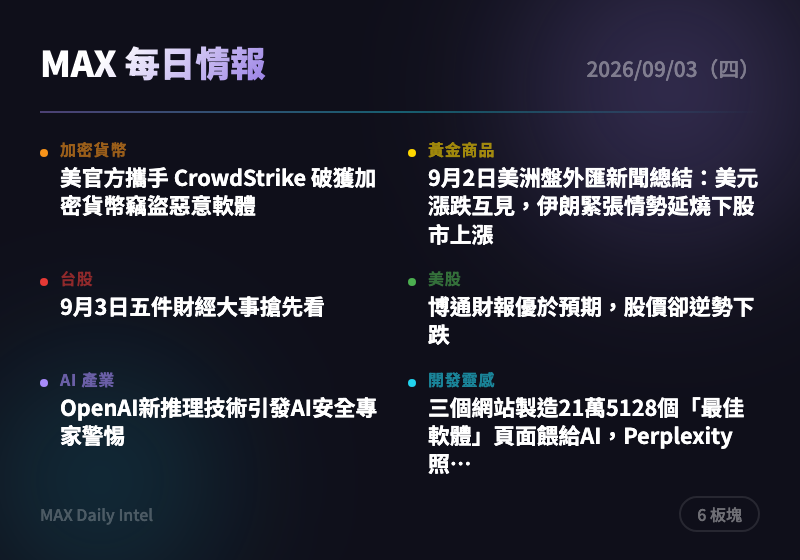
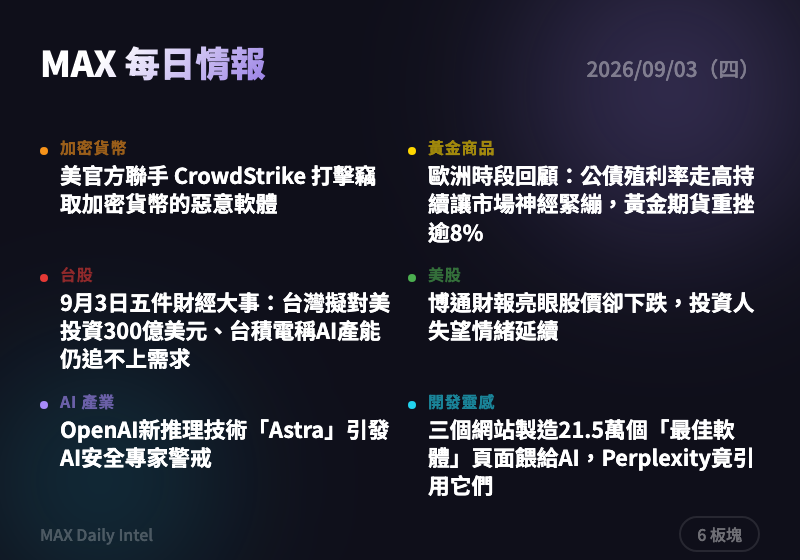
intel: 2026-09-03 每日情報自動生成

diff --git a/docs/2026-09-03.html b/docs/2026-09-03.html
@@ -318,15 +318,15 @@
     </div>
     <div class="news-card">
       <div class="source">CoinTelegraph</div>
-      <h3><a href="https://cointelegraph.com/news/us-officials-crowdstrike-malware-stealing-crypto?utm_source=rss_feed&utm_medium=rss&utm_campaign=rss_partner_inbound" target="_blank" rel="noopener">美官方攜手 CrowdStrike 破獲加密貨幣竊盜惡意軟體</a></h3>
-      <div class="summary">美國聯邦當局與資安業者 CrowdStrike (紐約證交所代碼CRWD) 合作，搗毀一個潛伏長達八年、竊取約15萬美元加密貨幣的惡意軟體網絡。此案顯示執法機關對加密犯罪的追查能力持續強化，長期潛伏型攻擊也逐漸浮上檯面。對一般投資人影響有限，但反映監管與資安合作正在收緊犯罪空間。</div>
+      <h3><a href="https://cointelegraph.com/news/us-officials-crowdstrike-malware-stealing-crypto?utm_source=rss_feed&utm_medium=rss&utm_campaign=rss_partner_inbound" target="_blank" rel="noopener">美官方聯手 CrowdStrike 打擊竊取加密貨幣的惡意軟體</a></h3>
+      <div class="summary">聯邦當局與 CrowdStrike 等民間夥伴聯手瓦解一款過去八年間竊取約 15 萬美元加密貨幣的俄羅斯惡意軟體。此案顯示執法機關對加密貨幣犯罪的追蹤能力持續提升，長期有助降低鏈上資產被盜風險。對一般投資人而言屬中性偏正面消息，無需採取行動。</div>
       <div class="tags"><span class="tag">加密貨幣</span><span class="tag">資安</span><span class="tag">執法</span></div>
     </div>
     <div class="news-card">
       <div class="source">CoinDesk</div>
-      <h3><a href="https://www.coindesk.com/business/2026/09/02/kraken-parent-payward-pushes-ipo-back-to-mid-2027-at-earliest" target="_blank" rel="noopener">Kraken母公司Payward IPO延後至2027年第二季</a></h3>
-      <div class="summary">加密貨幣交易所 Kraken 的母公司 Payward 將原訂的首次公開發行(IPO)計畫延後至最早2027年第二季。此舉反映當前市場環境（美股債殖利率飆升、地緣政治緊張）不利加密企業上市，也顯示產業對資本市場時機更趨保守。投資人若關注加密股票曝險，需留意上市時程持續遞延的風險。</div>
-      <div class="tags"><span class="tag">加密貨幣</span><span class="tag">IPO</span><span class="tag">資本市場</span></div>
+      <h3><a href="https://www.coindesk.com/business/2026/09/02/kraken-parent-payward-pushes-ipo-back-to-mid-2027-at-earliest" target="_blank" rel="noopener">Kraken 母公司 Payward 將 IPO 延至 2027 年第二季以後</a></h3>
+      <div class="summary">加密貨幣交易所 Kraken 的母公司 Payward 宣布將原訂的 IPO 計畫延後至 2027 年第二季或更晚。此舉反映近期市場波動與監管不確定性可能影響加密企業上市時程，投資人應留意加密股權投資標的的流動性風險。建議暫緩對相關概念股的追高操作。</div>
+      <div class="tags"><span class="tag">加密貨幣</span><span class="tag">IPO</span><span class="tag">交易所</span></div>
     </div>
   </section>
 
@@ -338,15 +338,15 @@
     </div>
     <div class="news-card">
       <div class="source">ForexLive</div>
-      <h3><a href="https://investinglive.com/news/investinglive-americas-fx-news-wrap-2-sept-usd-mixed-stocks-rise-as-iran-tensions-simmer/" target="_blank" rel="noopener">9月2日美洲盤外匯新聞總結：美元漲跌互見，伊朗緊張情勢延燒下股市上漲</a></h3>
-      <div class="summary">美股在伊朗緊張情勢未解之際仍收紅，以小型股領漲；聯準會褐皮書顯示經濟溫和成長、通膨溫和。美元表現分歧反映市場對地緣風險與貨幣政策前景的拉鋸。黃金及避險資產走勢值得留意，尤其若中東局勢進一步升溫。</div>
-      <div class="tags"><span class="tag">外匯</span><span class="tag">美股</span><span class="tag">地緣政治</span><span class="tag">央行</span></div>
+      <h3><a href="https://investinglive.com/news/investinglive-european-session-wrap-higher-bond-yields-continue-to-keep-markets-on-edge/" target="_blank" rel="noopener">歐洲時段回顧：公債殖利率走高持續讓市場神經緊繃，黃金期貨重挫逾8%</a></h3>
+      <div class="summary">受美伊緊張情勢與鷹派聯準會預期影響，公債殖利率飆升，標普500指數跌破重要支撐，黃金期貨大跌逾8%。市場人士討論這是否為逢低買進黃金的機會，同時債券市場出現結構性轉變值得高度關注。建議留意殖利率走勢，若黃金持續探底可分批布局。</div>
+      <div class="tags"><span class="tag">黃金</span><span class="tag">債券市場</span><span class="tag">地緣政治</span></div>
     </div>
     <div class="news-card">
       <div class="source">ForexLive</div>
-      <h3><a href="https://investinglive.com/news/us-factory-orders-for-the-month-of-july-0-9-versus-0-6-expected/" target="_blank" rel="noopener">美國7月工廠訂單增0.9%，優於預期的0.6%</a></h3>
-      <div class="summary">美國7月工廠訂單月增0.9%，明顯優於市場預期的0.6%，前值則由-0.3%上修至-0.2%；耐久財訂單亦與初值一致成長1.1%。數據顯示製造業需求動能仍具韌性，可能強化聯準會維持鷹派立場的理由，對黃金及殖利率敏感資產構成壓力。建議留意後續殖利率走勢對貴金屬的連動影響。</div>
-      <div class="tags"><span class="tag">總體經濟</span><span class="tag">美國數據</span><span class="tag">央行</span></div>
+      <h3><a href="https://investinglive.com/news/irgc-claims-that-another-two-oil-tankers-have-been-disabled-after-hitting-mines-in-the-strait-of-hormuz/" target="_blank" rel="noopener">伊朗革命衛隊聲稱荷姆茲海峽再有兩艘油輪因觸雷失去動力</a></h3>
+      <div class="summary">伊朗伊斯蘭革命衛隊（IRGC）宣稱又有兩艘油輪在荷姆茲海峽觸雷失去動力，顯示伊朗持續以海峽航行安全作為對美施壓籌碼。此事件推升原油與避險資產價格，市場需持續關注中東緊張情勢是否進一步升級。建議投資人保留部分部位於能源與黃金作為避險。</div>
+      <div class="tags"><span class="tag">地緣政治</span><span class="tag">原油</span><span class="tag">中東</span></div>
     </div>
   </section>
 
@@ -358,15 +358,15 @@
     </div>
     <div class="news-card">
       <div class="source">經濟日報</div>
-      <h3><a href="https://money.udn.com/money/story/5607/9731020" target="_blank" rel="noopener">9月3日五件財經大事搶先看</a></h3>
-      <div class="summary">美商務部長盧特尼克透露台灣下週將宣布對美投資200至300億美元，並評估開徵新半導體關稅；Google技術長強調全球算力需求無上限、將加強與台灣合作；台積電(2330)高層則指出AI產能吃緊，就算同時興建20座晶圓廠仍供不應求。這些消息牽動台美貿易關係與半導體供應鏈布局，投資人應密切關注後續關稅細節與台積電擴產進度對相關個股的影響。</div>
-      <div class="tags"><span class="tag">半導體</span><span class="tag">台美貿易</span><span class="tag">台積電</span><span class="tag">AI</span></div>
+      <h3><a href="https://money.udn.com/money/story/5607/9731020" target="_blank" rel="noopener">9月3日五件財經大事：台灣擬對美投資300億美元、台積電稱AI產能仍追不上需求</a></h3>
+      <div class="summary">美國商務部長盧特尼克表示台灣下週將宣布對美投資200至300億美元，同時評估對台開徵新半導體關稅；台積電高層則指出AI需求龐大迫切，即便同時興建20座晶圓廠仍難以滿足需求。此消息牽動台美貿易關係與半導體供應鏈布局，對台積電及相關供應鏈個股具長線含意。建議關注後續關稅細節與台積電資本支出動向。</div>
+      <div class="tags"><span class="tag">台美貿易</span><span class="tag">半導體</span><span class="tag">台積電</span><span class="tag">地緣政治</span></div>
     </div>
     <div class="news-card">
       <div class="source">經濟日報</div>
-      <h3><a href="https://money.udn.com/money/story/5607/9730901" target="_blank" rel="noopener">台股外資殺盤近千億元，後市留意美股美債及技術面三大風險</a></h3>
-      <div class="summary">台股9月2日在三大法人賣壓逾千億元下重挫784點、跌幅1.6%，收在46,164點的當日低點，並跌破5日均線。法人指出市場正面臨「升息預期」與「AI題材」的多空拉鋸，成交量同步萎縮至9,764.9億元，顯示追價意願轉弱。建議投資人短線留意美股表現、美債殖利率走勢及台股技術面支撐，控制持股水位因應波動。</div>
-      <div class="tags"><span class="tag">台股</span><span class="tag">外資</span><span class="tag">風險管理</span></div>
+      <h3><a href="https://money.udn.com/money/story/5607/9730901" target="_blank" rel="noopener">台股外資賣壓近千億元 後市須留意美股、美債殖利率及技術面三大風險</a></h3>
+      <div class="summary">台股在三大法人逾千億元賣壓下重挫784點、跌幅1.6%，並跌破5日均線，成交量萎縮至9,764.9億元。市場多空因素交織，主要是「升息預期」與「AI題材」拉鋸，短線恐持續震盪。建議投資人留意美股、美債殖利率走勢及台股技術面支撐，逢高減碼保留現金。</div>
+      <div class="tags"><span class="tag">台股</span><span class="tag">外資</span><span class="tag">風險</span></div>
     </div>
   </section>
 
@@ -378,15 +378,15 @@
     </div>
     <div class="news-card">
       <div class="source">MarketWatch</div>
-      <h3><a href="https://www.marketwatch.com/story/broadcoms-stock-falls-despite-upbeat-earnings-extending-a-frustrating-stretch-for-investors-81de3f53?mod=mw_rss_topstories" target="_blank" rel="noopener">博通財報優於預期，股價卻逆勢下跌</a></h3>
-      <div class="summary">博通(Broadcom, AVGO)最新季度財報超越市場預期，但股價仍未能因此上漲，延續近期讓投資人失望的走勢。這反映市場對AI供應鏈類股的獲利預期已相當高，即便財報亮眼也難以進一步推升股價，投資人須留意「利多出盡」的風險，評估是否已充分反映在股價中。</div>
-      <div class="tags"><span class="tag">半導體</span><span class="tag">AI</span><span class="tag">財報</span><span class="tag">美股</span></div>
+      <h3><a href="https://www.marketwatch.com/story/broadcoms-stock-falls-despite-upbeat-earnings-extending-a-frustrating-stretch-for-investors-81de3f53?mod=mw_rss_topstories" target="_blank" rel="noopener">博通財報亮眼股價卻下跌，投資人失望情緒延續</a></h3>
+      <div class="summary">博通(Broadcom)最新季度財報優於市場預期，但股價仍應聲下跌，反映市場對其估值與未來成長預期已相當嚴苛。這顯示AI供應鏈龍頭股在財報後容易出現「利多出盡」的賣壓。建議追蹤該股後續財測與AI訂單能見度再行布局。</div>
+      <div class="tags"><span class="tag">美股</span><span class="tag">半導體</span><span class="tag">財報</span><span class="tag">AI</span></div>
     </div>
     <div class="news-card">
       <div class="source">MarketWatch</div>
-      <h3><a href="https://www.marketwatch.com/story/nvidias-stock-is-climbing-as-investors-get-more-confidence-in-an-expanding-base-of-ai-customers-a6e297f1?mod=mw_rss_topstories" target="_blank" rel="noopener">輝達股價走揚，市場對AI客戶群擴大更具信心</a></h3>
-      <div class="summary">輝達(Nvidia, NVDA)股價上漲，反映投資人對其AI客戶基礎持續擴大更具信心。戴爾(Dell)財報顯示AI硬體需求已不僅限於大型雲端業者，代表AI基礎建設投資正擴散至更廣泛的企業客戶。這對整體AI供應鏈類股是正面訊號，可留意相關伺服器與晶片供應商的連動表現。</div>
-      <div class="tags"><span class="tag">AI</span><span class="tag">半導體</span><span class="tag">輝達</span><span class="tag">美股</span></div>
+      <h3><a href="https://www.marketwatch.com/story/nvidias-stock-is-climbing-as-investors-get-more-confidence-in-an-expanding-base-of-ai-customers-a6e297f1?mod=mw_rss_topstories" target="_blank" rel="noopener">輝達股價走高，投資人對AI客戶群擴大更具信心</a></h3>
+      <div class="summary">輝達(Nvidia)股價上漲，主因戴爾(Dell)財報顯示AI硬體需求已擴展至主要雲端業者以外的客戶群。這代表AI基礎建設需求的廣度正在提升，非僅集中於少數大型雲端商，對整體半導體供應鏈是正面訊號。建議持續關注企業級AI伺服器訂單能否延續動能。</div>
+      <div class="tags"><span class="tag">美股</span><span class="tag">輝達</span><span class="tag">AI</span><span class="tag">半導體</span></div>
     </div>
   </section>
 
@@ -398,14 +398,14 @@
     </div>
     <div class="news-card">
       <div class="source">TechCrunch AI</div>
-      <h3><a href="https://techcrunch.com/2026/09/02/openais-new-reasoning-technique-alarms-ai-safety-experts/" target="_blank" rel="noopener">OpenAI新推理技術引發AI安全專家警惕</a></h3>
-      <div class="summary">OpenAI新款Astra模型將採用「循環深度(recurrent depth)」技術，讓模型能跳脫多數推理模型慣用的循序思考模式運作。此舉引發AI安全專家憂慮，因為脫離傳統可解釋的推理鏈可能使模型行為更難監控與預測。此事件值得持續關注監管機構與業界對AI安全標準的後續回應。</div>
-      <div class="tags"><span class="tag">AI</span><span class="tag">OpenAI</span><span class="tag">AI安全</span></div>
+      <h3><a href="https://techcrunch.com/2026/09/02/openais-new-reasoning-technique-alarms-ai-safety-experts/" target="_blank" rel="noopener">OpenAI新推理技術「Astra」引發AI安全專家警戒</a></h3>
+      <div class="summary">OpenAI新模型Astra採用「循環深度」(recurrent depth)技術，讓模型能跳脫多數推理模型慣用的循序思考模式運作。此舉引發AI安全專家高度警覺，擔憂此技術可能帶來難以預測或監控的風險，被形容為「AI安全史上最糟發展之一」。建議密切關注Astra正式發布後的安全防護措施與業界反應。</div>
+      <div class="tags"><span class="tag">AI安全</span><span class="tag">OpenAI</span><span class="tag">模型技術</span></div>
     </div>
     <div class="news-card">
       <div class="source">The Verge AI</div>
-      <h3><a href="https://www.theverge.com/ai-artificial-intelligence/988742/google-gemini-3-8-flash" target="_blank" rel="noopener">Google推出Gemini 3.8 Flash，稱模型「更努力」但成本可能提高</a></h3>
-      <div class="summary">Google在前代發布僅數週後便推出Gemini 3.8 Flash，宣稱新模型透過在複雜任務上執行更多推理步驟並「迭代呼叫工具」而「更努力」運作。定價維持與3.7 Flash相同的入門價，每百萬輸入token 0.75美元、輸出token 3.75美元，但實際使用成本可能因推理步驟增加而上升。反映AI大廠競相在效能與成本間尋找平衡，開發者應評估新模型是否符合成本效益。</div>
+      <h3><a href="https://www.theverge.com/ai-artificial-intelligence/988742/google-gemini-3-8-flash" target="_blank" rel="noopener">Google推出Gemini 3.8 Flash，號稱「更努力思考」但成本可能提高</a></h3>
+      <div class="summary">Google在Gemini 3.7 Flash推出僅數週後，即發布Gemini 3.8 Flash，宣稱新模型透過更多推理步驟與反覆調用工具，能「更努力」處理複雜任務。入門定價維持與3.7 Flash相同（每百萬輸入token 0.75美元、輸出3.75美元），但複雜任務實際成本可能因推理步驟增加而上升。此為Google加速模型迭代、與OpenAI等對手競爭AI效能的策略之一，企業用戶應留意實際使用成本變化。</div>
       <div class="tags"><span class="tag">AI</span><span class="tag">Google</span><span class="tag">大型語言模型</span></div>
     </div>
   </section>
@@ -418,15 +418,15 @@
     </div>
     <div class="news-card">
       <div class="source">Hacker News Best</div>
-      <h3><a href="https://trellner.com/reports/manufactured-sources-behind-ai-recommendations/" target="_blank" rel="noopener">三個網站製造21萬5128個「最佳軟體」頁面餵給AI，Perplexity照單引用</a></h3>
-      <div class="summary">調查發現有三個網站大量生產超過21萬個「最佳軟體」推薦頁面，這些人造內容被AI搜尋引擎Perplexity直接引用為推薦來源。此事凸顯AI推薦系統容易被規模化的內容農場操縱，引用來源的可信度受到質疑。開發者與內容平台應留意AI答案來源污染問題，評估是否需建立更嚴謹的來源驗證機制。</div>
-      <div class="tags"><span class="tag">AI</span><span class="tag">資訊可信度</span><span class="tag">搜尋引擎</span></div>
+      <h3><a href="https://trellner.com/reports/manufactured-sources-behind-ai-recommendations/" target="_blank" rel="noopener">三個網站製造21.5萬個「最佳軟體」頁面餵給AI，Perplexity竟引用它們</a></h3>
+      <div class="summary">調查發現有三個網站大量生產（共21萬5128個）人工製造的「最佳軟體推薦」頁面，而AI搜尋引擎Perplexity卻將這些內容當作可信來源引用，在Hacker News獲得269讚、121則討論。此事凸顯AI推薦系統容易被規模化的內容農場汙染，資訊可信度堪憂。開發者在設計AI檢索或推薦系統時應加強來源品質過濾機制。</div>
+      <div class="tags"><span class="tag">AI</span><span class="tag">資訊可信度</span><span class="tag">SEO操縱</span></div>
     </div>
     <div class="news-card">
       <div class="source">Hacker News Best</div>
-      <h3><a href="https://www.anthropic.com/claude-fable-and-mythos-5-1" target="_blank" rel="noopener">Claude Fable 5.1與Claude Mythos 5.1發布</a></h3>
-      <div class="summary">Anthropic正式發表新一代模型Claude Fable 5.1與Claude Mythos 5.1，官方表示新版針對客戶對價格、資料保留與過度保守防護機制的批評做出改善。Fable 5.1效能優於前代Fable 5，但一般任務成本降低約25%，複雜代理型(agentic)任務成本最高可降45%。對於使用Claude進行開發的團隊而言，這代表在同等或更佳表現下可顯著降低營運成本。</div>
-      <div class="tags"><span class="tag">AI</span><span class="tag">Anthropic</span><span class="tag">Claude</span><span class="tag">大型語言模型</span></div>
+      <h3><a href="https://danluu.com/zitron/" target="_blank" rel="noopener">Ed Zitron的AI懷疑論預測準確度如何？</a></h3>
+      <div class="summary">文章回顧知名AI懷疑論者Ed Zitron過去對AI產業的各項預測，檢視其準確度究竟如何，在Hacker News上引發837個讚與990則熱烈討論。此文對於理性評估當前AI炒作與泡沫疑慮具參考價值，適合作為多空觀點平衡的閱讀素材。開發者與投資人可藉此反思自身對AI趨勢判斷是否過度樂觀或悲觀。</div>
+      <div class="tags"><span class="tag">AI</span><span class="tag">產業評論</span><span class="tag">Hacker News</span></div>
     </div>
   </section>
 

diff --git a/docs/cards/2026-09-03-card.html b/docs/cards/2026-09-03-card.html
@@ -23,11 +23,11 @@ body{width:400px;height:280px;font-family:'Noto Sans TC',-apple-system,sans-seri
 <div class="content">
 <div class="top-row"><span class="title">MAX 每日情報</span><span class="date">2026/09/03（四）</span></div>
 <div class="divider"></div>
-<div class="grid"><div class="cell"><div class="dot" style="background:#f7931a"></div><div><div class="label" style="color:#f7931a">加密貨幣</div><div class="headline">美官方攜手 CrowdStrike 破獲加密貨幣竊盜惡意軟體</div></div></div>
-<div class="cell"><div class="dot" style="background:#ffd700"></div><div><div class="label" style="color:#ffd700">黃金商品</div><div class="headline">9月2日美洲盤外匯新聞總結：美元漲跌互見，伊朗緊張情勢延燒下股市上漲</div></div></div>
-<div class="cell"><div class="dot" style="background:#e53935"></div><div><div class="label" style="color:#e53935">台股</div><div class="headline">9月3日五件財經大事搶先看</div></div></div>
-<div class="cell"><div class="dot" style="background:#4caf50"></div><div><div class="label" style="color:#4caf50">美股</div><div class="headline">博通財報優於預期，股價卻逆勢下跌</div></div></div>
-<div class="cell"><div class="dot" style="background:#a78bfa"></div><div><div class="label" style="color:#a78bfa">AI 產業</div><div class="headline">OpenAI新推理技術引發AI安全專家警惕</div></div></div>
-<div class="cell"><div class="dot" style="background:#22d3ee"></div><div><div class="label" style="color:#22d3ee">開發靈感</div><div class="headline">三個網站製造21萬5128個「最佳軟體」頁面餵給AI，Perplexity照…</div></div></div></div>
+<div class="grid"><div class="cell"><div class="dot" style="background:#f7931a"></div><div><div class="label" style="color:#f7931a">加密貨幣</div><div class="headline">美官方聯手 CrowdStrike 打擊竊取加密貨幣的惡意軟體</div></div></div>
+<div class="cell"><div class="dot" style="background:#ffd700"></div><div><div class="label" style="color:#ffd700">黃金商品</div><div class="headline">歐洲時段回顧：公債殖利率走高持續讓市場神經緊繃，黃金期貨重挫逾8%</div></div></div>
+<div class="cell"><div class="dot" style="background:#e53935"></div><div><div class="label" style="color:#e53935">台股</div><div class="headline">9月3日五件財經大事：台灣擬對美投資300億美元、台積電稱AI產能仍追不上需求</div></div></div>
+<div class="cell"><div class="dot" style="background:#4caf50"></div><div><div class="label" style="color:#4caf50">美股</div><div class="headline">博通財報亮眼股價卻下跌，投資人失望情緒延續</div></div></div>
+<div class="cell"><div class="dot" style="background:#a78bfa"></div><div><div class="label" style="color:#a78bfa">AI 產業</div><div class="headline">OpenAI新推理技術「Astra」引發AI安全專家警戒</div></div></div>
+<div class="cell"><div class="dot" style="background:#22d3ee"></div><div><div class="label" style="color:#22d3ee">開發靈感</div><div class="headline">三個網站製造21.5萬個「最佳軟體」頁面餵給AI，Perplexity竟引用它們</div></div></div></div>
 <div class="bottom-row"><span class="url">MAX Daily Intel</span><span class="badge">6 板塊</span></div>
 </div></body></html>
